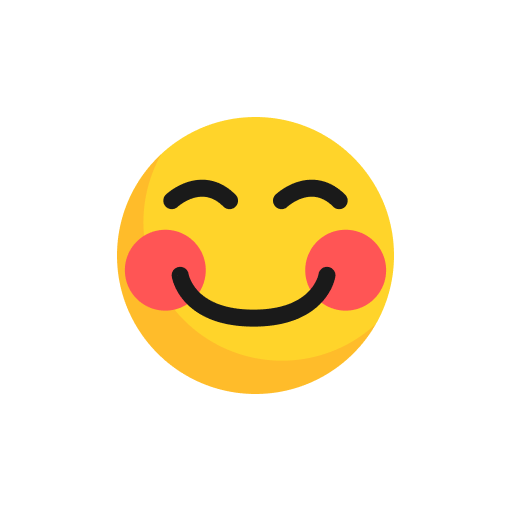
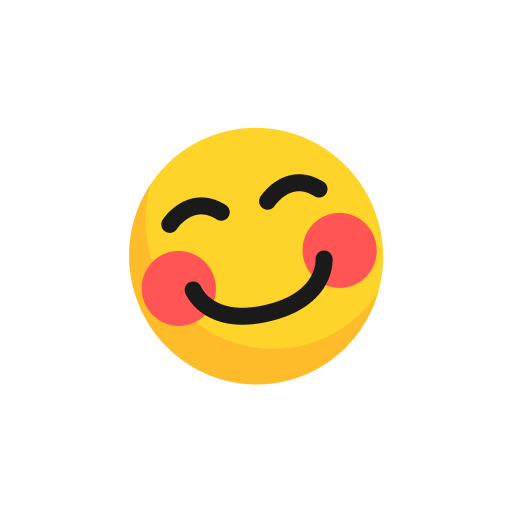
Added multiple emoji feedback upon a star selection. Tested in editor.

Changed region(s): [[0.2188, 0.2188, 0.7812, 0.7812]]

diff --git a/Assets/Starlit_Quest/Scripts/UI/WristWatch.cs b/Assets/Starlit_Quest/Scripts/UI/WristWatch.cs
@@ -58,12 +58,17 @@ public class WristWatch : MonoBehaviour
 
     private IEnumerator AsyncCelebrateAStarCollected()
     {
+        if (numCollectedStars > emojis.Count)
+        {
+            yield break;
+        }
+        
         yield return new WaitForSeconds(1f);
         Instantiate(vfxAStarFound, vfxPlaceholder);
         yield return targetStarImage.transform.DOScale(0f, 1f).SetEase(Ease.InOutQuad).WaitForCompletion();
         
         targetStarImage.texture = null;
-        targetStarImage.texture = emojis[0];
+        targetStarImage.texture = emojis[numCollectedStars-1];
         yield return targetStarImage.transform.DOScale(1f, 0.5f).SetEase(Ease.InOutQuad).WaitForCompletion();
         yield return targetStarImage.transform.DOScale(0.8f, 0.2f).SetEase(Ease.InOutQuad).WaitForCompletion();
         yield return targetStarImage.transform.DOScale(1.2f, 0.2f).SetEase(Ease.InOutQuad).WaitForCompletion();
